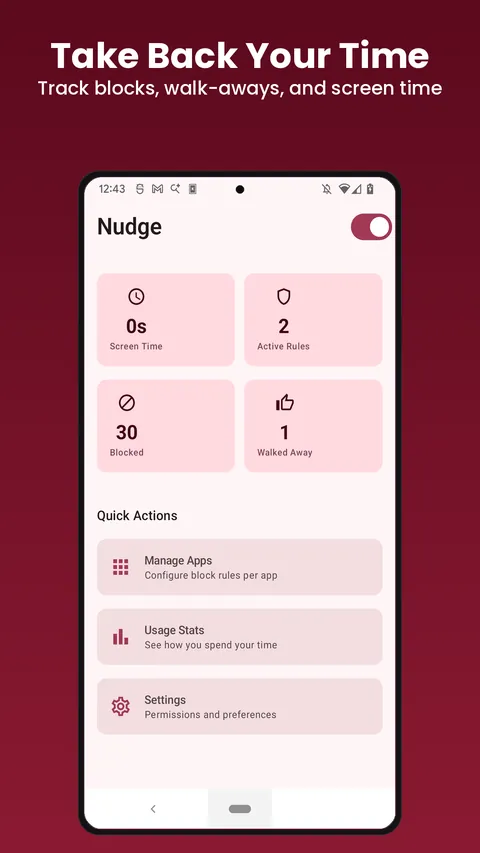
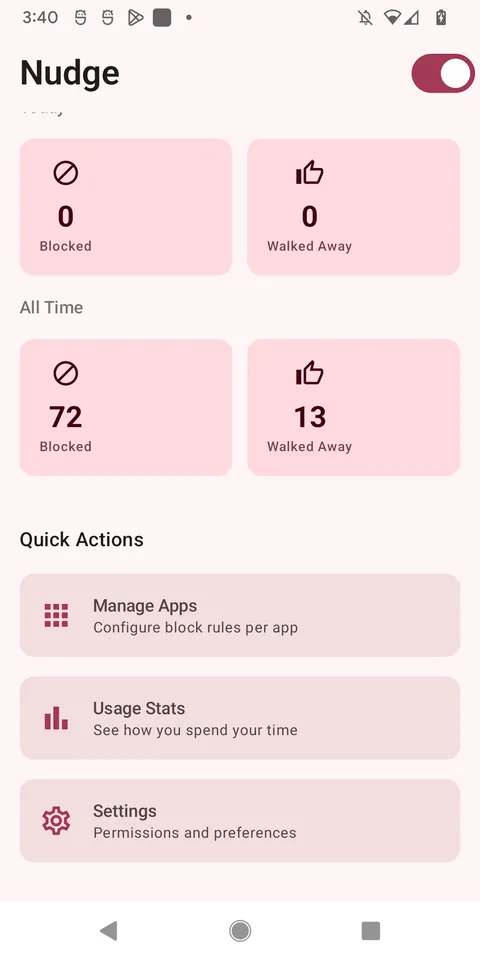
Fix stretched phone mockups: height:auto on .phone img + raw Nudge device captures
Root cause: img height=853/960 attributes acted as fixed CSS height because
.phone img set width:100% without height:auto -> every screenshot stretched
to ~2.4:1. Also swapped Nudge's 16:9 Play-listing marketing frames for raw
1080x2160 device captures (dashboard + Manage Apps) at the true phone ratio.

diff --git a/index.html b/index.html
@@ -393,7 +393,7 @@
       box-shadow: 0 26px 52px -20px rgba(90, 55, 30, 0.4), 0 4px 14px rgba(90, 55, 30, 0.1);
       transition: transform 0.4s cubic-bezier(0.16, 1, 0.3, 1), box-shadow 0.4s ease;
     }
-    .phone img { display: block; width: 100%; border-radius: 23px; }
+    .phone img { display: block; width: 100%; height: auto; border-radius: 23px; }
     .phone.a { transform: rotate(-4deg); }
     .phone.b { transform: rotate(3deg) translateY(20px); margin-left: -38px; }
     .cluster:hover .phone.a { transform: rotate(-5deg) translateY(-4px); }
@@ -655,8 +655,8 @@
         </div>
         <div class="product-shots">
           <div class="cluster">
-            <div class="phone a"><img src="/assets/apps/nudge/dashboard.webp" width="480" height="853" alt="Nudge dashboard showing screen time, active rules and walk-aways" loading="lazy"></div>
-            <div class="phone b"><img src="/assets/apps/nudge/breathe.webp" width="480" height="853" alt="Nudge breathing exercise shown before a distracting app opens" loading="lazy"></div>
+            <div class="phone a"><img src="/assets/apps/nudge/dashboard.webp" width="480" height="960" alt="Nudge dashboard showing blocked and walked-away counts with quick actions" loading="lazy"></div>
+            <div class="phone b"><img src="/assets/apps/nudge/manage-apps.webp" width="480" height="960" alt="Nudge Manage Apps screen with per-app block toggles" loading="lazy"></div>
           </div>
         </div>
       </div>